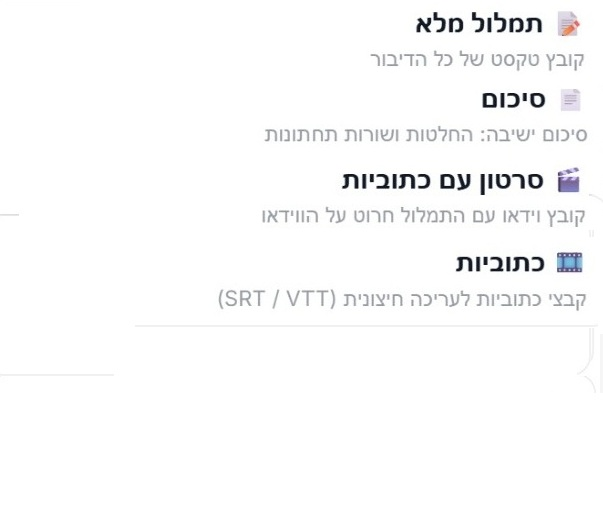
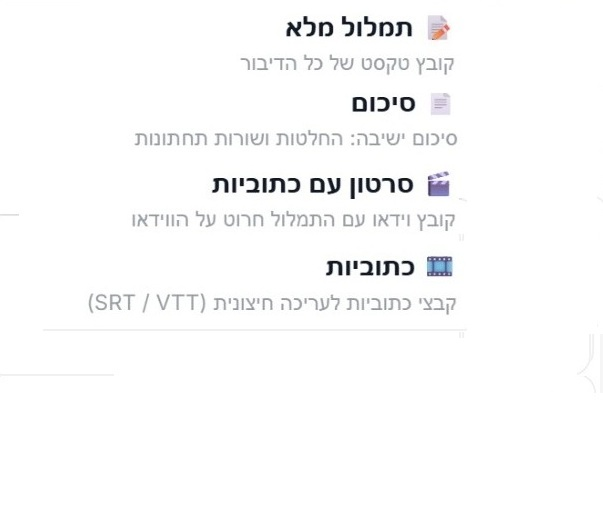
Add json summary
Made-with: Cursor

Changed region(s): [[0.209, 0.0, 0.9851, 0.2764], [0.1493, 0.4607, 0.9851, 0.6142], [0.209, 0.3071, 0.9851, 0.4607]]

diff --git a/static/js/app_logic.js b/static/js/app_logic.js
@@ -5713,14 +5713,33 @@ async function initOpenInApp(jobId) {
         try { clearOpenJobStandardSummaryHost(); } catch (_) {}
         try { syncStandardFormatTabs(); } catch (_) {}
         if (hasTranscriptForOpen) {
-            setFormatViewMode('doc');
-            const hasWordModel =
-                Array.isArray(window.currentWords) && Array.isArray(window.currentCaptions) &&
-                window.currentWords.length > 0 && window.currentCaptions.length > 0;
-            if (hasWordModel && typeof renderWordCaptionEditor === 'function') {
-                renderWordCaptionEditor();
-            } else if (typeof window.render === 'function') {
-                window.render();
+            const hasSummary = hasStandardFormattedSummary();
+            const renderOpenTranscriptView = () => {
+                const hasWordModel =
+                    Array.isArray(window.currentWords) && Array.isArray(window.currentCaptions) &&
+                    window.currentWords.length > 0 && window.currentCaptions.length > 0;
+                if (hasWordModel && typeof renderWordCaptionEditor === 'function') {
+                    renderWordCaptionEditor();
+                } else if (typeof window.render === 'function') {
+                    window.render();
+                }
+            };
+            if (hasSummary) {
+                setFormatViewMode('summary');
+                renderStandardSummaryView();
+            } else {
+                setFormatViewMode('doc');
+                renderOpenTranscriptView();
+                if (typeof ensureFormattedViaApiForExport === 'function') {
+                    void ensureFormattedViaApiForExport().then((ok) => {
+                        if (ok && hasStandardFormattedSummary()) {
+                            setFormatViewMode('summary');
+                            renderStandardSummaryView();
+                        }
+                    }).catch((err) => {
+                        console.warn('[qs] open-in-app: summary generation failed', err);
+                    });
+                }
             }
         }
     } else if (typeof window.render === 'function') {
@@ -8909,6 +8928,13 @@ if (toggleAuthBtn) {
 }
 
 document.addEventListener('DOMContentLoaded', async () => {
+    window.__qsSimulationMode = false;
+    try {
+        fetch('/api/simulation_mode', { cache: 'no-store' })
+            .then((r) => (r.ok ? r.json() : {}))
+            .then((j) => { window.__qsSimulationMode = j.simulation === true; })
+            .catch(() => {});
+    } catch (_) {}
     // 1. Navbar auth first so signed-in CTA → Personal Area before i18n pass
     await setupNavbarAuth();
     if (typeof window.applyTranslations === 'function') window.applyTranslations();
@@ -11001,6 +11027,55 @@ document.addEventListener('DOMContentLoaded', () => {
         qsSyncRegularRecordUi();
     }
 
+    function qsLocalDebugDropEnabled() {
+        if (typeof isMedicalModeEnabled === 'function' && isMedicalModeEnabled()) return true;
+        if (!window.__qsSimulationMode) return false;
+        try {
+            const p = String(window.location.pathname || '').replace(/\/+$/, '') || '/';
+            return p === '/' || p === '/he' || p === '/en';
+        } catch (_) {
+            return false;
+        }
+    }
+
+    function isLocalDebugMediaFile(file) {
+        return !!(file && (
+            (typeof qsIsAudioMediaFile === 'function' && qsIsAudioMediaFile(file)) ||
+            (typeof qsIsVideoMediaFile === 'function' && qsIsVideoMediaFile(file))
+        ));
+    }
+
+    function qsAttachLocalMediaToLoadedTranscript(file) {
+        if (!file || typeof initOpenAppHasLoadedTranscriptPayload !== 'function') return false;
+        if (!initOpenAppHasLoadedTranscriptPayload()) return false;
+        let isAudio = typeof qsIsAudioMediaFile === 'function' && qsIsAudioMediaFile(file);
+        let isVideo = !isAudio && typeof qsIsVideoMediaFile === 'function' && qsIsVideoMediaFile(file);
+        if (typeof isMedicalModeEnabled === 'function' && isMedicalModeEnabled()) {
+            isAudio = true;
+            isVideo = false;
+        }
+        if (!isVideo && !isAudio) return false;
+        if (typeof qsShowLocalUploadMediaPreview === 'function') {
+            qsShowLocalUploadMediaPreview(file);
+        }
+        const placeholderEl = document.getElementById('placeholder');
+        if (placeholderEl) placeholderEl.style.display = 'none';
+        document.querySelectorAll('.controls-bar').forEach((bar) => { if (bar) bar.style.display = ''; });
+        if (typeof setTranscriptActionButtonsVisible === 'function') setTranscriptActionButtonsVisible(true);
+        if (mainBtn) {
+            mainBtn.disabled = false;
+            mainBtn.innerText = (typeof window.t === 'function' ? window.t('upload_and_process') : 'Upload');
+        }
+        if (typeof setDiarizationBusyState === 'function') setDiarizationBusyState(false);
+        if (typeof hideProgressBar === 'function') hideProgressBar();
+        try { window.__QS_ALLOW_MEDIA_AFTER_LOCAL_JSON = false; } catch (_) {}
+        if (typeof setMainButtonAction === 'function') setMainButtonAction('upload');
+        if (typeof window.applyMedicalModeUi === 'function') {
+            try { window.applyMedicalModeUi(); } catch (_) {}
+        }
+        return true;
+    }
+
     async function loadTranscriptJsonFile(file, options = {}) {
         if (!file) return false;
         const text = await file.text();
@@ -11100,9 +11175,12 @@ document.addEventListener('DOMContentLoaded', () => {
         return Array.isArray(points) && points.some((p) => String(p || '').trim());
     }
 
-    function medicalJsonDropFileFromEvent(e) {
+    function debugDropFilesFromEvent(e) {
         const files = e && e.dataTransfer && e.dataTransfer.files ? Array.from(e.dataTransfer.files) : [];
-        return files.find(isTranscriptJsonFile) || files.find(isMedicalAudioFile) || files[0] || null;
+        return {
+            json: files.find(isTranscriptJsonFile) || null,
+            media: files.find(isLocalDebugMediaFile) || null,
+        };
     }
 
     function isTranscriptJsonFile(file) {
@@ -11124,28 +11202,44 @@ document.addEventListener('DOMContentLoaded', () => {
         return types.some((t) => String(t || '').toLowerCase() === 'files');
     }
 
-    function handleMedicalJsonDropEvent(e, evtName) {
-        if (!isMedicalModeEnabled() || !medicalJsonDragHasFile(e)) return;
+    async function handleDebugLocalDropEvent(e, evtName) {
+        if (!qsLocalDebugDropEnabled() || !medicalJsonDragHasFile(e)) return;
         e.preventDefault();
         e.stopPropagation();
         if (e.dataTransfer) e.dataTransfer.dropEffect = 'copy';
         if (evtName !== 'drop') return;
-        if (e._qsMedicalJsonDropHandled) return;
-        e._qsMedicalJsonDropHandled = true;
+        if (e._qsDebugLocalDropHandled) return;
+        e._qsDebugLocalDropHandled = true;
         if (window.isTriggering) {
             if (typeof showStatus === 'function') showStatus('A transcription is already running.', true);
             return;
         }
-        const file = medicalJsonDropFileFromEvent(e);
-        if (!file) return;
-        if (isTranscriptJsonFile(file)) {
-            loadTranscriptJsonFile(file, { source: 'medical_drop', skipScroll: true }).catch((err) => {
-                console.warn('Medical JSON transcript load failed', err);
-                if (typeof showStatus === 'function') showStatus(`Failed to load JSON: ${err.message || err}`, true);
-            });
+        const { json: jsonFile, media: mediaFile } = debugDropFilesFromEvent(e);
+        if (!jsonFile && !mediaFile) {
+            if (typeof showStatus === 'function') {
+                showStatus('Please drop a JSON transcript and/or video/audio file (MP4, MOV, M4A, etc.).', true);
+            }
             return;
         }
-        if (isMedicalAudioFile(file)) {
+
+        const onMedical = typeof isMedicalModeEnabled === 'function' && isMedicalModeEnabled();
+
+        if (jsonFile) {
+            try {
+                await loadTranscriptJsonFile(jsonFile, {
+                    source: onMedical ? 'medical_drop' : 'simulation_drop',
+                    skipScroll: true
+                });
+            } catch (err) {
+                console.warn('Debug JSON transcript load failed', err);
+                if (typeof showStatus === 'function') showStatus(`Failed to load JSON: ${err.message || err}`, true);
+                return;
+            }
+        }
+
+        if (!mediaFile) return;
+
+        if (onMedical && isMedicalAudioFile(mediaFile) && !jsonFile) {
             const rec = window._medicalRecorder;
             if (rec && rec.state && rec.state !== 'inactive') {
                 if (typeof showStatus === 'function') showStatus('Finish or cancel the current recording before uploading audio.', true);
@@ -11156,17 +11250,26 @@ document.addEventListener('DOMContentLoaded', () => {
                 if (typeof window.applyMedicalModeUi === 'function') window.applyMedicalModeUi();
                 window.__QS_FILE_PICKER_PURPOSE = 'new_upload';
             } catch (_) {}
-            pushFileIntoPickerAndUpload(file).catch((err) => {
+            pushFileIntoPickerAndUpload(mediaFile).catch((err) => {
                 console.warn('Medical audio upload failed', err);
                 if (typeof showStatus === 'function') showStatus(`Failed to upload audio: ${err.message || err}`, true);
             });
             return;
         }
-        if (typeof showStatus === 'function') showStatus('Please drop a JSON transcript or audio file (M4A, MP3, WAV, etc.).', true);
+
+        if (qsAttachLocalMediaToLoadedTranscript(mediaFile)) {
+            if (typeof showStatus === 'function') {
+                showStatus('Local media attached (no upload).', false, { duration: 5000 });
+            }
+        } else if (!jsonFile) {
+            if (typeof showStatus === 'function') {
+                showStatus('Drop a JSON transcript first, then video or audio.', true);
+            }
+        }
     }
 
     ['dragenter', 'dragover', 'drop'].forEach((evtName) => {
-        document.addEventListener(evtName, (e) => handleMedicalJsonDropEvent(e, evtName), true);
+        document.addEventListener(evtName, (e) => handleDebugLocalDropEvent(e, evtName), true);
     });
 
     window.applyMedicalModeUi = function() {
@@ -13491,7 +13594,7 @@ document.addEventListener('DOMContentLoaded', () => {
 
         /** Keep toolbar hidden until unified GPT (summary + grammar) completes. */
         const deferToolbarUntilGptDone = true;
-        const summaryAlreadyDone = qsJobSummaryAlreadyDone(jobId);
+        const summaryAlreadyDone = qsJobSummaryAlreadyDone(jobId) || hasStandardFormattedSummary();
         const deferMedicalStreamSummary = qsShouldDeferMedicalStreamSummary(rawResult) && !summaryAlreadyDone;
         if (deferMedicalStreamSummary) {
             window.isTriggering = false;
@@ -15582,88 +15685,13 @@ function groupSegmentsBySpeaker(segments, enableGlue = true) {
                 // Do not trigger this for normal New Session uploads; stale transcript state can otherwise hijack iOS picker selections.
                 const pickerPurpose = String(window.__QS_FILE_PICKER_PURPOSE || 'new_upload');
                 const allowLocalMediaAttach = !!window.__QS_ALLOW_MEDIA_AFTER_LOCAL_JSON && pickerPurpose === 'attach_local_media';
-                if (allowLocalMediaAttach && typeof initOpenAppHasLoadedTranscriptPayload === 'function' && initOpenAppHasLoadedTranscriptPayload()) {
-                    let isAudio = qsIsAudioMediaFile(file);
-                    let isVideo = !isAudio && qsIsVideoMediaFile(file);
-                    if (isMedicalModeEnabled()) {
-                        isAudio = true;
-                        isVideo = false;
+                if (allowLocalMediaAttach && qsAttachLocalMediaToLoadedTranscript(file)) {
+                    if (typeof showStatus === 'function') {
+                        showStatus('Local media attached (no upload).', false, { duration: 5000 });
                     }
-                    if (isVideo || isAudio) {
-                        const objectUrl = URL.createObjectURL(file);
-                        window.originalFileName = file.name.replace(/\.[^.]+$/, '') || 'media';
-                        window.uploadWasVideo = !!isVideo && !isMedicalModeEnabled();
-                        qsPersistUploadWasVideoFlag(!!window.uploadWasVideo);
-                        if (isVideo) {
-                            const src = document.getElementById('video-source');
-                            const video = document.getElementById('main-video');
-                            if (src) {
-                                src.src = objectUrl;
-                                const isMov = /\.mov$/i.test(file.name) || (file.type || '').toLowerCase().includes('quicktime');
-                                src.type = isMov ? 'video/mp4' : (file.type || 'video/mp4');
-                            }
-                            if (video) {
-                                video.style.position = 'relative';
-                                video.style.zIndex = '1002';
-                                video.controls = true;
-                                video.load();
-                                video.pause();
-                                try { video.focus(); } catch (e) {}
-                            }
-                            const videoWrapper = document.getElementById('video-wrapper');
-                            const videoPlayer = document.getElementById('video-player-container');
-                            const playerContainer = document.getElementById('audio-player-container');
-                            if (playerContainer) playerContainer.style.display = 'none';
-                            if (videoWrapper) { videoWrapper.style.display = 'flex'; videoWrapper.classList.add('visible'); }
-                            if (video) video.style.display = '';
-                            if (videoPlayer) videoPlayer.style.display = 'block';
-                        } else {
-                            const audioContainer = document.getElementById('audio-player-container');
-                            const videoWrapper = document.getElementById('video-wrapper');
-                            const videoPlayer = document.getElementById('video-player-container');
-                            const video = document.getElementById('main-video');
-                            const audioSource = document.getElementById('audio-source');
-                            const mainAudio = document.getElementById('main-audio');
-                            if (videoWrapper) {
-                                videoWrapper.style.display = 'none';
-                                videoWrapper.classList.remove('visible');
-                            }
-                            try { document.body.classList.remove('mobile-video-session'); } catch (_) {}
-                            if (video) video.style.display = 'none';
-                            if (audioContainer && videoWrapper && videoPlayer && audioContainer.parentNode === videoPlayer) {
-                                videoWrapper.parentNode.insertBefore(audioContainer, videoWrapper);
-                            }
-                            if (audioContainer) audioContainer.style.display = 'block';
-                            if (audioSource && mainAudio) {
-                                audioSource.src = objectUrl;
-                                audioSource.type = qsMimeForAudioElement(file);
-                                mainAudio.load();
-                            }
-                            if (videoPlayer) videoPlayer.style.display = 'block';
-                        }
-                        const mimeForMov = isMedicalModeEnabled()
-                            ? qsGuessUploadMimeType(file, 'audio/webm')
-                            : ((/\.mov$/i.test(file.name) || String(file.type || '').toLowerCase().includes('quicktime')) ? 'video/mp4' : (file.type || ''));
-                        setLocalPreviewAudio(objectUrl, mimeForMov);
-                        setTranscriptActionButtonsVisible(true);
-                        if (mainBtn) {
-                            mainBtn.disabled = false;
-                            mainBtn.innerText = (typeof window.t === 'function' ? window.t('upload_and_process') : 'Upload');
-                        }
-                        setDiarizationBusyState(false);
-                        hideProgressBar();
-                        try { window.__QS_ALLOW_MEDIA_AFTER_LOCAL_JSON = false; } catch (_) {}
-                        if (typeof setMainButtonAction === 'function') setMainButtonAction('upload');
-                        if (typeof window.applyMedicalModeUi === 'function') {
-                            try { window.applyMedicalModeUi(); } catch (_) {}
-                        }
-                        if (typeof showStatus === 'function') {
-                            showStatus('Local media attached (no upload).', false, { duration: 5000 });
-                        }
-                        fileInput.value = '';
-                        try { window.__QS_FILE_PICKER_PURPOSE = 'new_upload'; } catch (_) {}
-                        return;
-                    }
+                    fileInput.value = '';
+                    try { window.__QS_FILE_PICKER_PURPOSE = 'new_upload'; } catch (_) {}
+                    return;
                 }
 
                 try { window.__QS_FILE_PICKER_PURPOSE = 'new_upload'; } catch (_) {}

diff --git a/siteapp.py b/siteapp.py
@@ -3192,6 +3192,28 @@ def _put_segments_json_to_s3(user_id, input_s3_key, segments, stage='gpt'):
     return _put_transcript_json_to_s3(user_id, input_s3_key, {"segments": segments}, stage=stage)
 
 
+def _segments_to_plain_text(segments):
+    """Join segment texts for GPT summary/format (server-side persist on gpu callback)."""
+    if not isinstance(segments, list):
+        return ''
+    parts = []
+    for seg in segments:
+        if not isinstance(seg, dict):
+            continue
+        t = str(seg.get('text') or '').strip()
+        if t:
+            parts.append(t)
+    return '\n'.join(parts)
+
+
+def _gpu_callback_server_format_enabled(is_medical_job):
+    """Run GPT summary on the server so output JSON + email links include formatted."""
+    if is_medical_job:
+        return False
+    v = (os.environ.get('GPT_FORMAT_ON_GPU_CALLBACK') or 'true').strip().lower()
+    return v in ('1', 'true', 'yes', 'on')
+
+
 def _flatten_words_from_segments(segments):
     """Flatten WhisperX-style segment words into flat words[] + captions[].
 
@@ -8133,6 +8155,7 @@ def _finalize_gpu_callback_background(job_id, data, segments, result, input_s3_k
         or ('/summaries/' in str(input_s3_key or ''))
         or str(input_s3_key or '').startswith('medical/')
     )
+    server_gpt_sec = None
     try:
         if input_s3_key:
             transcript_payload = {"segments": segments}
@@ -8147,6 +8170,31 @@ def _finalize_gpu_callback_background(job_id, data, segments, result, input_s3_k
                     "gpu_callback: merged existing formatted onto new segments (input_s3_key suffix=%s)",
                     input_s3_key.rsplit('/', 1)[-1][:80],
                 )
+            elif _gpu_callback_server_format_enabled(is_medical_job):
+                plain = _segments_to_plain_text(segments)
+                if plain.strip():
+                    try:
+                        t_fmt = time.time()
+                        fmt = _format_transcript_and_summary_via_openai(
+                            plain,
+                            target_lang='he',
+                            is_medical=False,
+                            user_id=user_id,
+                        )
+                        norm = _normalize_formatted_dict_for_storage(fmt)
+                        if norm:
+                            transcript_payload["formatted"] = norm
+                            logging.info(
+                                "gpu_callback: server-side formatted saved (overview_len=%s, input_s3_key suffix=%s)",
+                                len(str(norm.get('overview') or '')),
+                                input_s3_key.rsplit('/', 1)[-1][:80],
+                            )
+                        server_gpt_sec = round(time.time() - t_fmt, 3)
+                    except Exception as fmt_err:
+                        logging.warning(
+                            "gpu_callback: server-side GPT format failed (segments still saved): %s",
+                            fmt_err,
+                        )
             result_s3_key = _put_transcript_json_to_s3(
                 user_id or 'anonymous', input_s3_key, transcript_payload, stage='gpt', is_medical=is_medical_job
             )
@@ -8196,7 +8244,7 @@ def _finalize_gpu_callback_background(job_id, data, segments, result, input_s3_k
         download_sec=worker_timing.get("download_sec"),
         runpod_wakeup_sec=worker_timing.get("wakeup_sec") or waiting_for_run,
         runpod_process_sec=runpod_process,
-        gpt_sec=worker_timing.get("gpt_sec"),
+        gpt_sec=server_gpt_sec if server_gpt_sec is not None else worker_timing.get("gpt_sec"),
         total_sec=total_sec,
     )
 